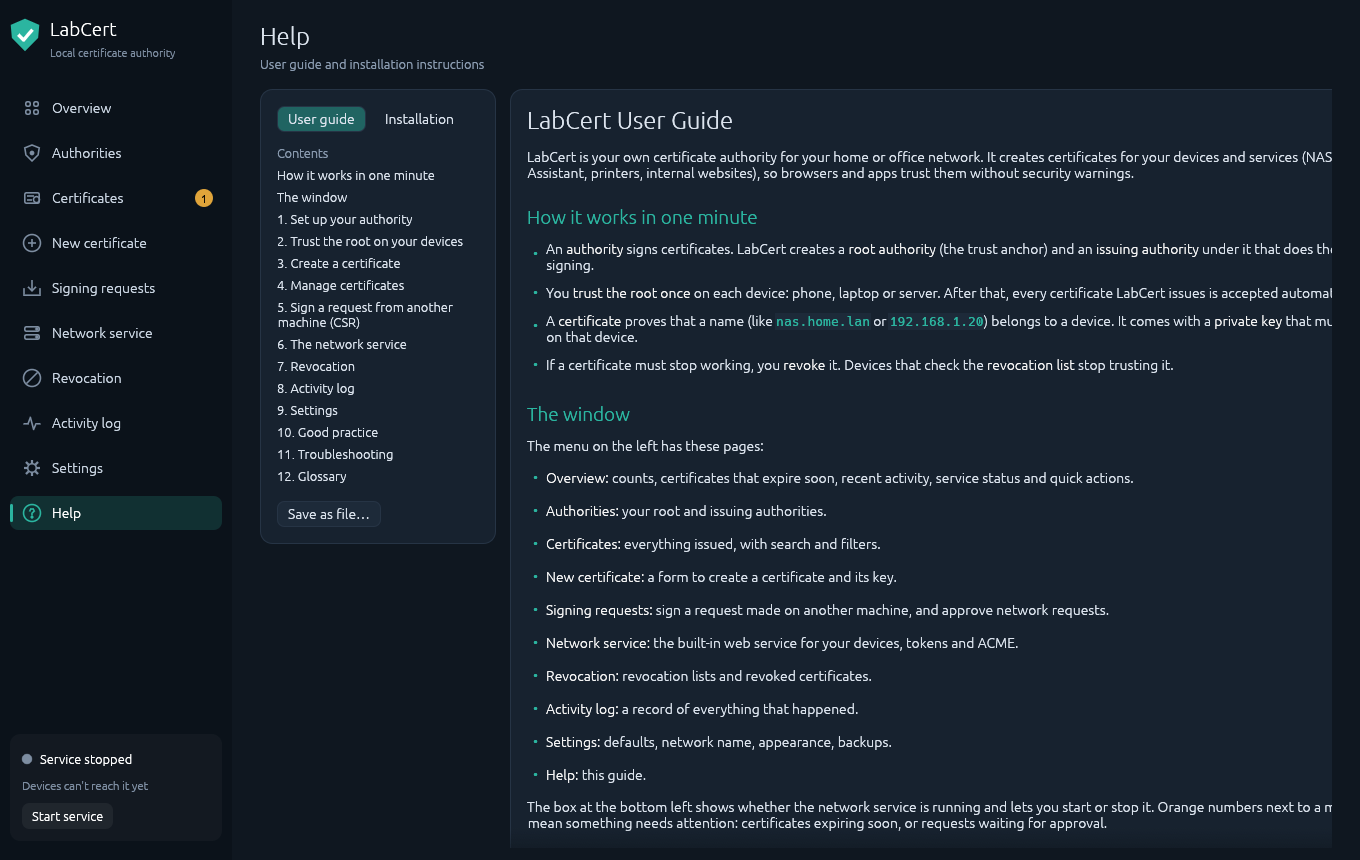
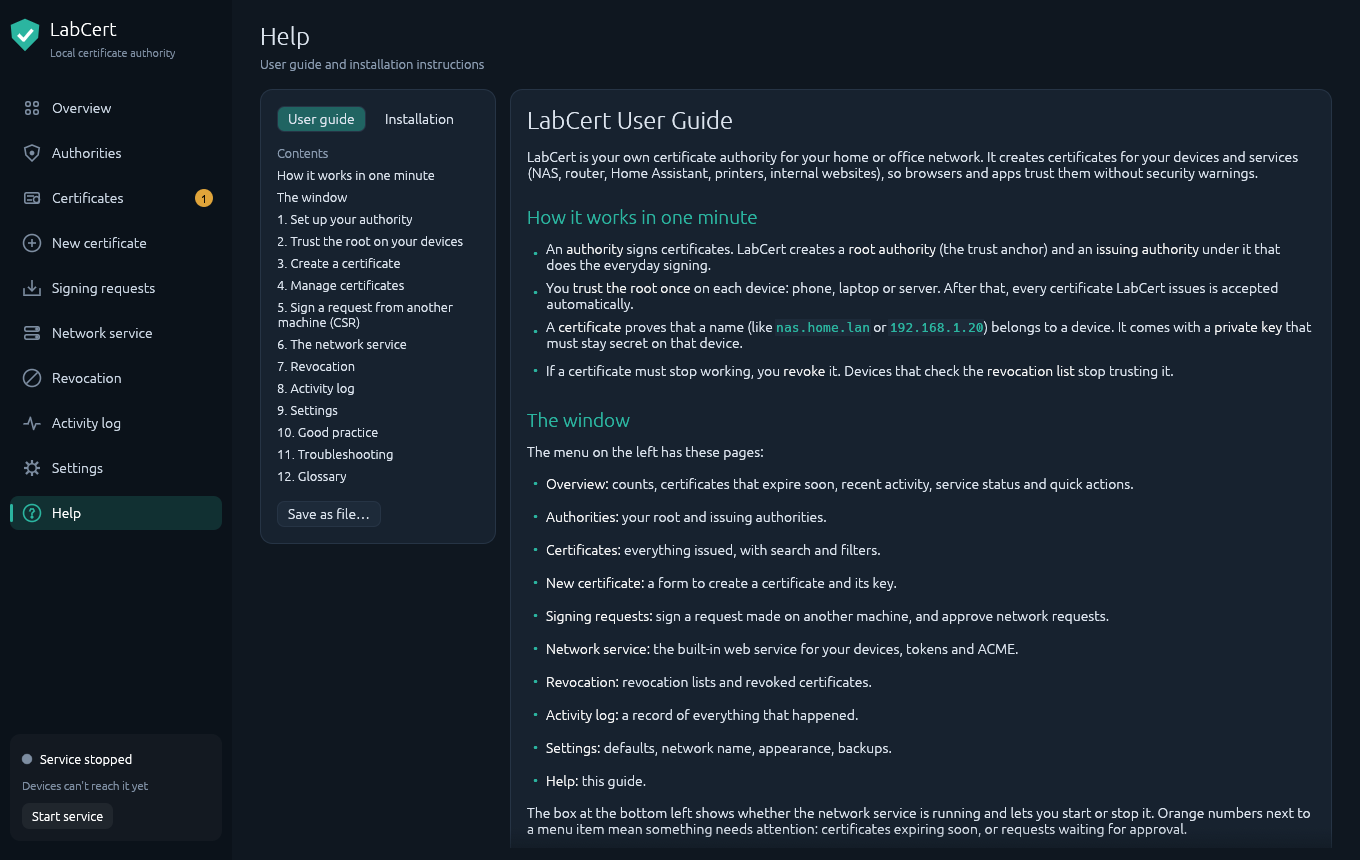
Version 0.2

diff --git a/src/help.rs b/src/help.rs
@@ -79,14 +79,10 @@ fn code_block(ui: &mut egui::Ui, p: &Pal, text: &str) {
         .inner_margin(egui::Margin::same(10))
         .show(ui, |ui| {
             ui.set_width(ui.available_width());
-            ui.horizontal(|ui| {
-                ui.add(egui::Label::new(RichText::new(text).monospace().color(p.text)).wrap());
-                ui.with_layout(egui::Layout::right_to_left(Align::Min), |ui| {
-                    if ui.small_button("Copy").clicked() {
-                        ui.ctx().copy_text(text.to_string());
-                    }
-                });
-            });
+            ui.add(egui::Label::new(RichText::new(text).monospace().color(p.text)).wrap());
+            if ui.small_button("Copy").clicked() {
+                ui.ctx().copy_text(text.to_string());
+            }
         });
 }
 
@@ -194,12 +190,16 @@ impl App {
     pub fn help_page(&mut self, ui: &mut egui::Ui, _st: &mut Store, p: &Pal) {
         let docs = [("User guide", USER_GUIDE, "LabCert-User-Guide.md"), ("Installation", INSTALL, "LabCert-Installation.md")];
         let (_, doc, file) = docs[self.help_tab.min(1)];
-        egui::Panel::left("help_toc")
-            .exact_size(250.0)
-            .resizable(false)
-            .show_separator_line(false)
-            .frame(egui::Frame::new().inner_margin(egui::Margin { left: 0, right: 14, top: 0, bottom: 0 }))
-            .show(ui, |ui| {
+        let total = ui.available_width();
+        let height = ui.available_height();
+        let toc_w = 236.0;
+        let gap = 14.0;
+        let doc_w = (total - toc_w - gap).max(300.0);
+        let origin = ui.cursor().min;
+        let toc_rect = egui::Rect::from_min_size(origin, egui::vec2(toc_w, height));
+        let doc_rect = egui::Rect::from_min_size(origin + egui::vec2(toc_w + gap, 0.0), egui::vec2(doc_w, height));
+        ui.allocate_rect(egui::Rect::from_min_size(origin, egui::vec2(total, height)), egui::Sense::hover());
+        ui.scope_builder(egui::UiBuilder::new().max_rect(toc_rect).layout(egui::Layout::top_down(Align::Min)), |ui| {
                 card(ui, p, |ui| {
                     ui.horizontal(|ui| {
                         for (i, (name, _, _)) in docs.iter().enumerate() {
@@ -222,7 +222,8 @@ impl App {
                     }
                 });
             });
-        egui::CentralPanel::default().frame(egui::Frame::new()).show(ui, |ui| {
+        ui.scope_builder(egui::UiBuilder::new().max_rect(doc_rect).layout(egui::Layout::top_down(Align::Min)), |ui| {
+            ui.set_width(doc_w);
             let mut area = egui::ScrollArea::vertical().id_salt(("help", self.help_tab)).auto_shrink([false, false]);
             if self.help_jump == Some(usize::MAX) {
                 area = area.vertical_scroll_offset(0.0);
@@ -230,7 +231,6 @@ impl App {
             }
             area.show(ui, |ui| {
                 card(ui, p, |ui| {
-                    ui.set_max_width(900.0);
                     render(ui, p, doc, &mut self.help_jump);
                 });
                 ui.add_space(20.0);
